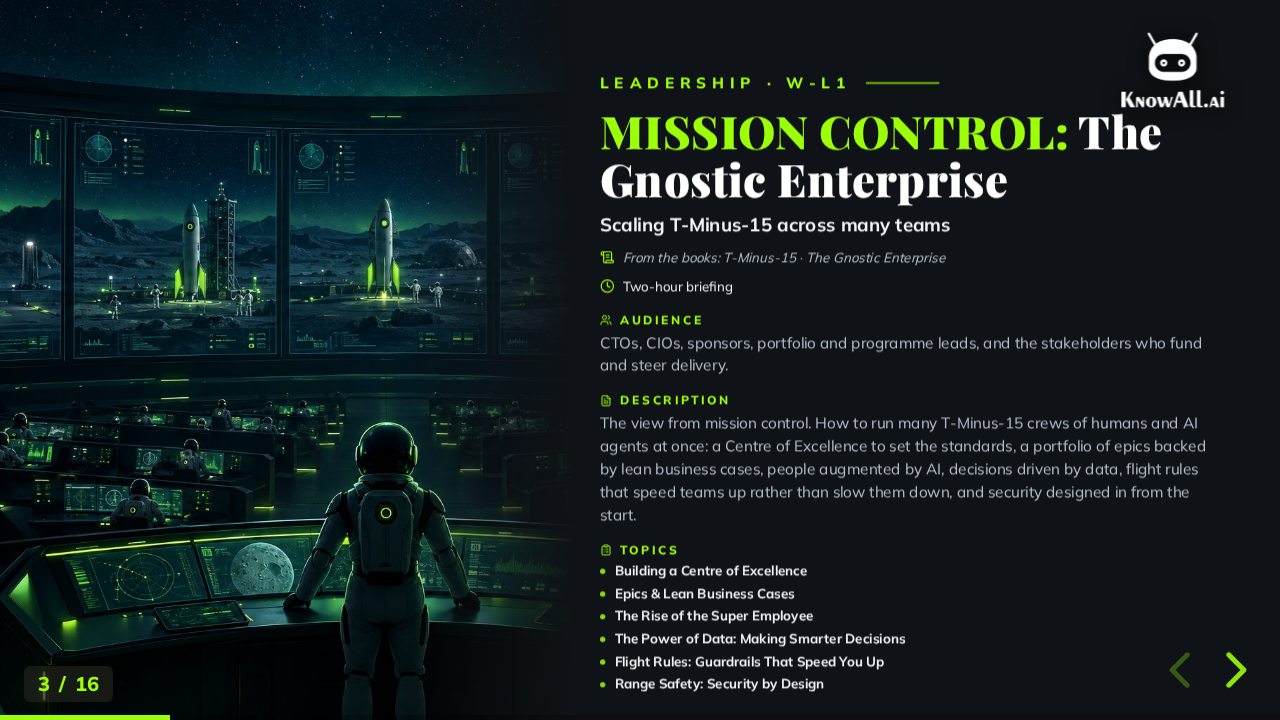
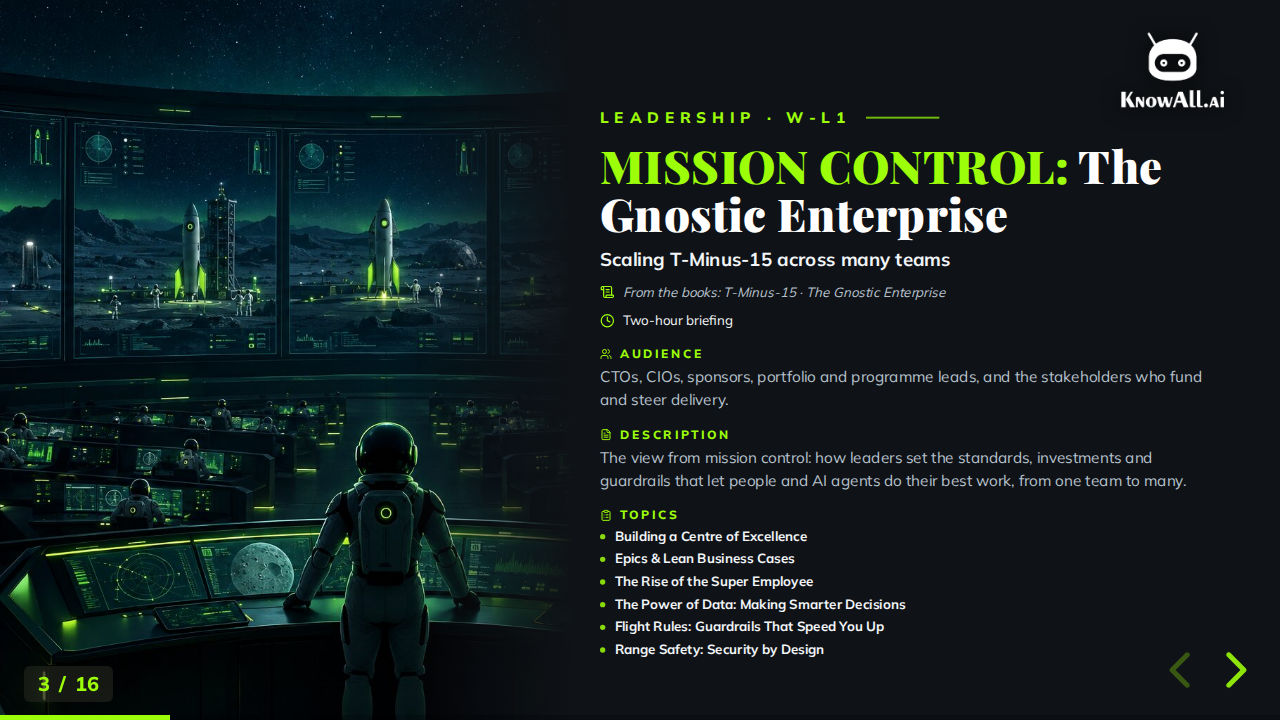
fix(presentations): shorter, broader W-L1 description
It isn't only about running several crews: "The view from mission
control: how leaders set the standards, investments and guardrails that
let people and AI agents do their best work, from one team to many."
Leaves more room for the chapter-name topics.

Changed region(s): [[0.4688, 0.1528, 0.9375, 0.9778], [0.4688, 0.0917, 0.7188, 0.1222], [0.9062, 0.1222, 0.9375, 0.1528]]

diff --git a/public/presentations/tminus15-workshops.html b/public/presentations/tminus15-workshops.html
@@ -442,7 +442,7 @@
             </div>
             <div class="ws-block">
               <h3 class="ws-label"><svg class="ic" aria-hidden="true"><use href="icons.svg#i-file-text" /></svg>Description</h3>
-              <p>The view from mission control. How to run many T-Minus-15 crews of humans and AI agents at once: a Centre of Excellence to set the standards, a portfolio of epics backed by lean business cases, people augmented by AI, decisions driven by data, flight rules that speed teams up rather than slow them down, and security designed in from the start.</p>
+              <p>The view from mission control: how leaders set the standards, investments and guardrails that let people and AI agents do their best work, from one team to many.</p>
             </div>
             <div class="ws-block">
               <h3 class="ws-label"><svg class="ic" aria-hidden="true"><use href="icons.svg#i-clipboard-list" /></svg>Topics</h3>

diff --git a/presentations-src/tminus15-workshops.html b/presentations-src/tminus15-workshops.html
@@ -414,7 +414,7 @@
           "chapterLabel": "From the books",
           "chapter": "T-Minus-15 &middot; The Gnostic Enterprise",
           "audience": "CTOs, CIOs, sponsors, portfolio and programme leads, and the stakeholders who fund and steer delivery.",
-          "description": "The view from mission control. How to run many T-Minus-15 crews of humans and AI agents at once: a Centre of Excellence to set the standards, a portfolio of epics backed by lean business cases, people augmented by AI, decisions driven by data, flight rules that speed teams up rather than slow them down, and security designed in from the start.",
+          "description": "The view from mission control: how leaders set the standards, investments and guardrails that let people and AI agents do their best work, from one team to many.",
           "columns": 1,
           "topics": [
             "Building a Centre of Excellence",
